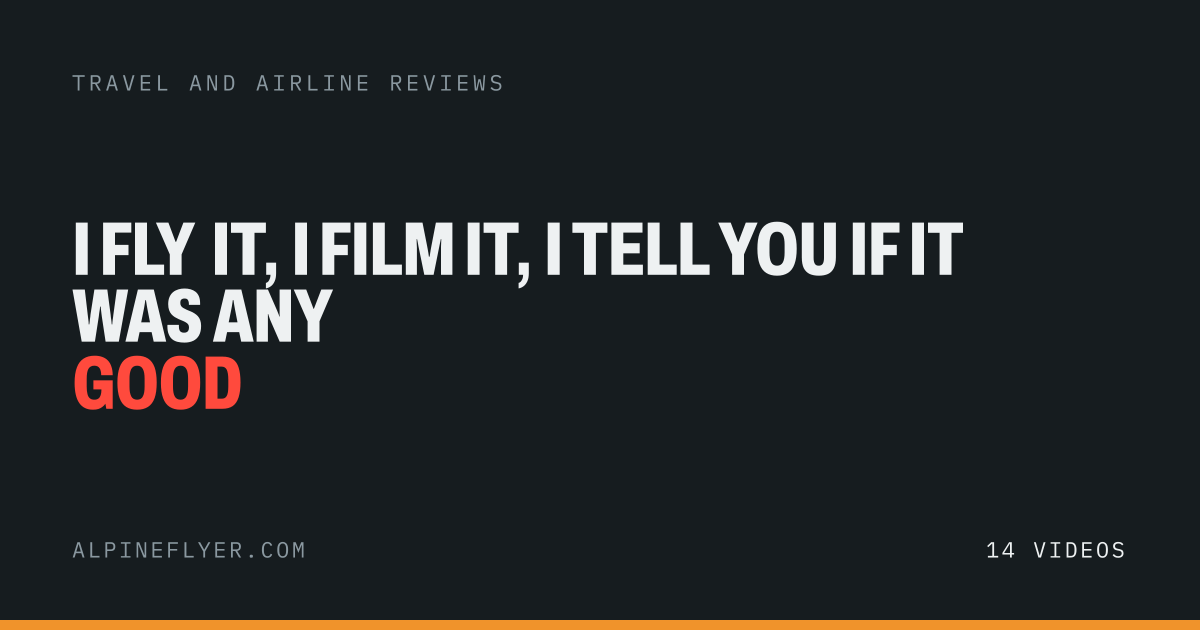
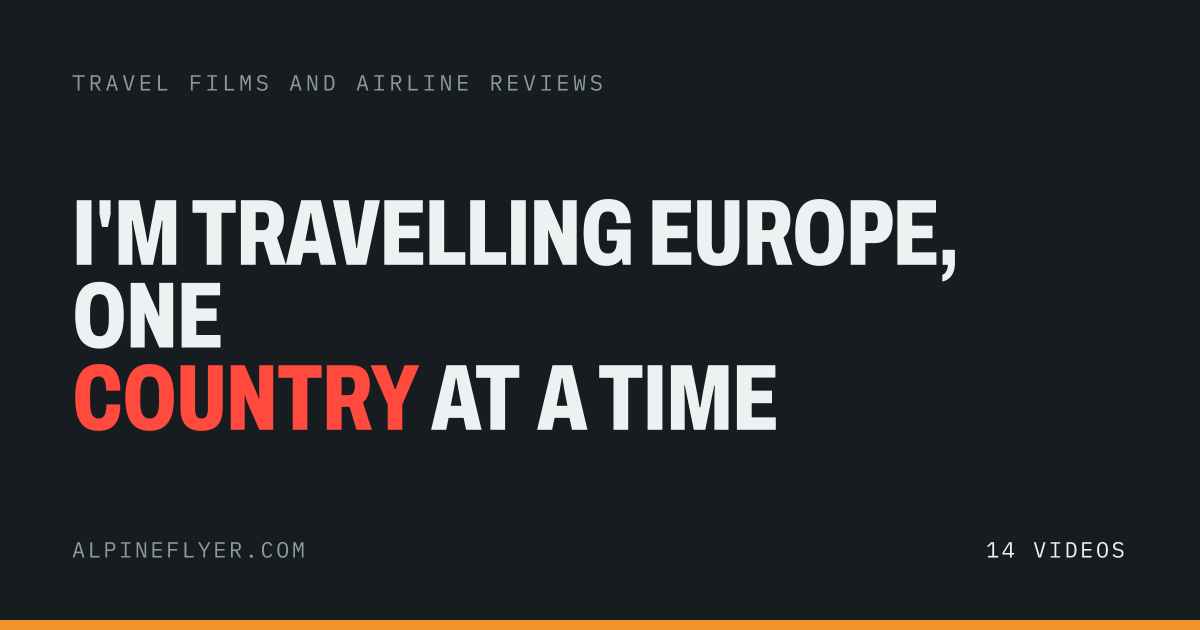
Lead with the travel, not the pitch
- Home headline is now "I'm travelling Europe, one country at a time", with
  an intro about the trip — trains, airlines, and what a place is like once
  you're standing in it.
- The full-width partnership band is gone. It read as a sales page above the
  work. One quiet line sits under the videos instead, and /partnerships stays
  in the nav for anyone looking for it.
- Same trim on the /videos introduction and the home share image.
- Upcoming artwork now resolves by name regardless of extension, so a .png
  dragged into src/assets/upcoming/ works when the config says .jpg.

Changed region(s): [[0.0617, 0.3016, 0.8017, 0.6937], [0.3392, 0.1206, 0.5242, 0.1508], [0.1542, 0.1206, 0.3083, 0.1508]]

diff --git a/docs/index.html b/docs/index.html
@@ -4,7 +4,7 @@
 <meta charset="utf-8">
 <meta name="viewport" content="width=device-width, initial-scale=1">
 <title>Alpine Flyer — Alpine Media Group</title>
-<meta name="description" content="Travel and airline reviews on YouTube by Will. Open to partnerships with airlines, hotels, tourist boards and travel brands.">
+<meta name="description" content="Will is travelling Europe one country at a time — trains, airlines, and what a place is actually like. Travel films and airline reviews on YouTube.">
 <link rel="canonical" href="https://alpineflyer.com/">
 
 <link rel="preload" href="/fonts/archivo-condensed-800.woff2" as="font" type="font/woff2" crossorigin>
@@ -14,14 +14,14 @@
 <meta property="og:site_name" content="Alpine Media Group">
 <meta property="og:locale" content="en_GB">
 <meta property="og:title" content="Alpine Flyer">
-<meta property="og:description" content="Travel and airline reviews on YouTube by Will. Open to partnerships with airlines, hotels, tourist boards and travel brands.">
+<meta property="og:description" content="Will is travelling Europe one country at a time — trains, airlines, and what a place is actually like. Travel films and airline reviews on YouTube.">
 <meta property="og:url" content="https://alpineflyer.com/">
 <meta property="og:image" content="https://alpineflyer.com/og/home.png">
 <meta property="og:image:width" content="1200">
 <meta property="og:image:height" content="630">
 <meta name="twitter:card" content="summary_large_image">
 <meta name="twitter:title" content="Alpine Flyer">
-<meta name="twitter:description" content="Travel and airline reviews on YouTube by Will. Open to partnerships with airlines, hotels, tourist boards and travel brands.">
+<meta name="twitter:description" content="Will is travelling Europe one country at a time — trains, airlines, and what a place is actually like. Travel films and airline reviews on YouTube.">
 <meta name="twitter:image" content="https://alpineflyer.com/og/home.png">
 
 <meta name="theme-color" content="#161C1F">
@@ -54,49 +54,24 @@
 <div class="wrap">
 
   <div class="mast">
-    <h1 class="d d-xl">I FLY IT, I FILM IT, I TELL YOU IF IT WAS ANY <b class="kw">GOOD</b></h1>
+    <h1 class="d d-xl">I&#39;M TRAVELLING EUROPE, ONE <b class="kw">COUNTRY</b> AT A TIME</h1>
     <div class="mast-copy">
       <p>
-        I'm Will. I book the flight, take the trip and put the whole thing on camera — airline
-        reviews from the seat, hotels I actually stayed in, and places worth the detour once you
-        get there. Based in England.
+        I'm Will, based in England. I'm working my way across Europe — overland where I can,
+        flying where I can't — and filming it as I go. London to Helsinki by train, airline reviews
+        from the seat, and what a place is actually like once you're standing in it.
       </p>
-      <p>
-        <a href="/partnerships/">I'm open to partnerships</a> — airlines, hotels, tourist boards
-        and travel brands. Reviews, trips and product on camera.
-      </p>
+      <p>It all ends up on the channel. Newest first, below.</p>
     </div>
   </div>
 
   <section class="soon" aria-labelledby="soon">
     
-    <p class="soon-flag" style="margin-top:0">Coming soon</p>
+    <p class="soon-flag">Coming soon</p>
     <h2 class="d d-l soon-t" id="soon">I TOOK THE TRAIN ACROSS <b class="kw">EUROPE</b></h2>
     <p class="soon-note">London to Helsinki, overland, no flights. Out soon.</p>
   </section>
-</div>
 
-<section class="pitch">
-  <div class="wrap pitch-grid">
-    <div>
-      <p class="eyebrow">Available for work</p>
-      <h2 class="d d-l">SEND ME SOMEWHERE, I&#39;LL REVIEW IT <b class="kw">HONESTLY</b></h2>
-    </div>
-    <div>
-      <p>
-        Holiday and hotel reviews, travel films for YouTube, and product reviews on Instagram.
-        Paid work is disclosed every time, and if it's not good I'll say so — which is the only
-        reason anyone believes the ones that are.
-      </p>
-      <p class="pitch-cta">
-        <a class="btn" href="mailto:milo@coleman-clan.co.uk?subject=Partnership">Email me</a>
-        <a class="more" href="/partnerships/">Get in touch →</a>
-      </p>
-    </div>
-  </div>
-</section>
-
-<div class="wrap">
   <section aria-labelledby="latest">
     <div class="rule-head">
       <h2 class="d d-m" id="latest">Latest on the channel</h2>
@@ -173,6 +148,14 @@
 
     <a class="more" href="https://www.youtube.com/@AlpineFlyer?sub_confirmation=1" rel="noopener">Subscribe on YouTube →</a>
   </section>
+
+  <section>
+    <p class="note">
+      Airlines, hotels and tourist boards: if you want a camera on something,
+      <a href="/partnerships/">get in touch</a>.
+    </p>
+  </section>
+
 </div>
 
 </main>

diff --git a/docs/videos/index.html b/docs/videos/index.html
@@ -82,13 +82,9 @@
     fifteen minutes.
   </p>
   <p>
-    I'm Will. I'm based in England, I fly more than is sensible, and I'm turning this into a
-    travel channel: airlines, hotels, and the places worth the detour once you've landed. There's
-    a back catalogue of flight sim below and there'll be less of it from here on.
-  </p>
-  <p>
-    If you want a camera pointed at something of yours — a route, a stay, a region —
-    <a href="/partnerships/">I'm open to partnerships</a>.
+    I'm Will. I'm based in England and I'm working my way across Europe one country at a time —
+    trains where I can, flights where I can't, filming it as I go. There's a back catalogue of
+    flight sim below and there'll be less of it from here on.
   </p>
 </div>
   </section><section class="vid-group" aria-labelledby="s-flight-sim">
